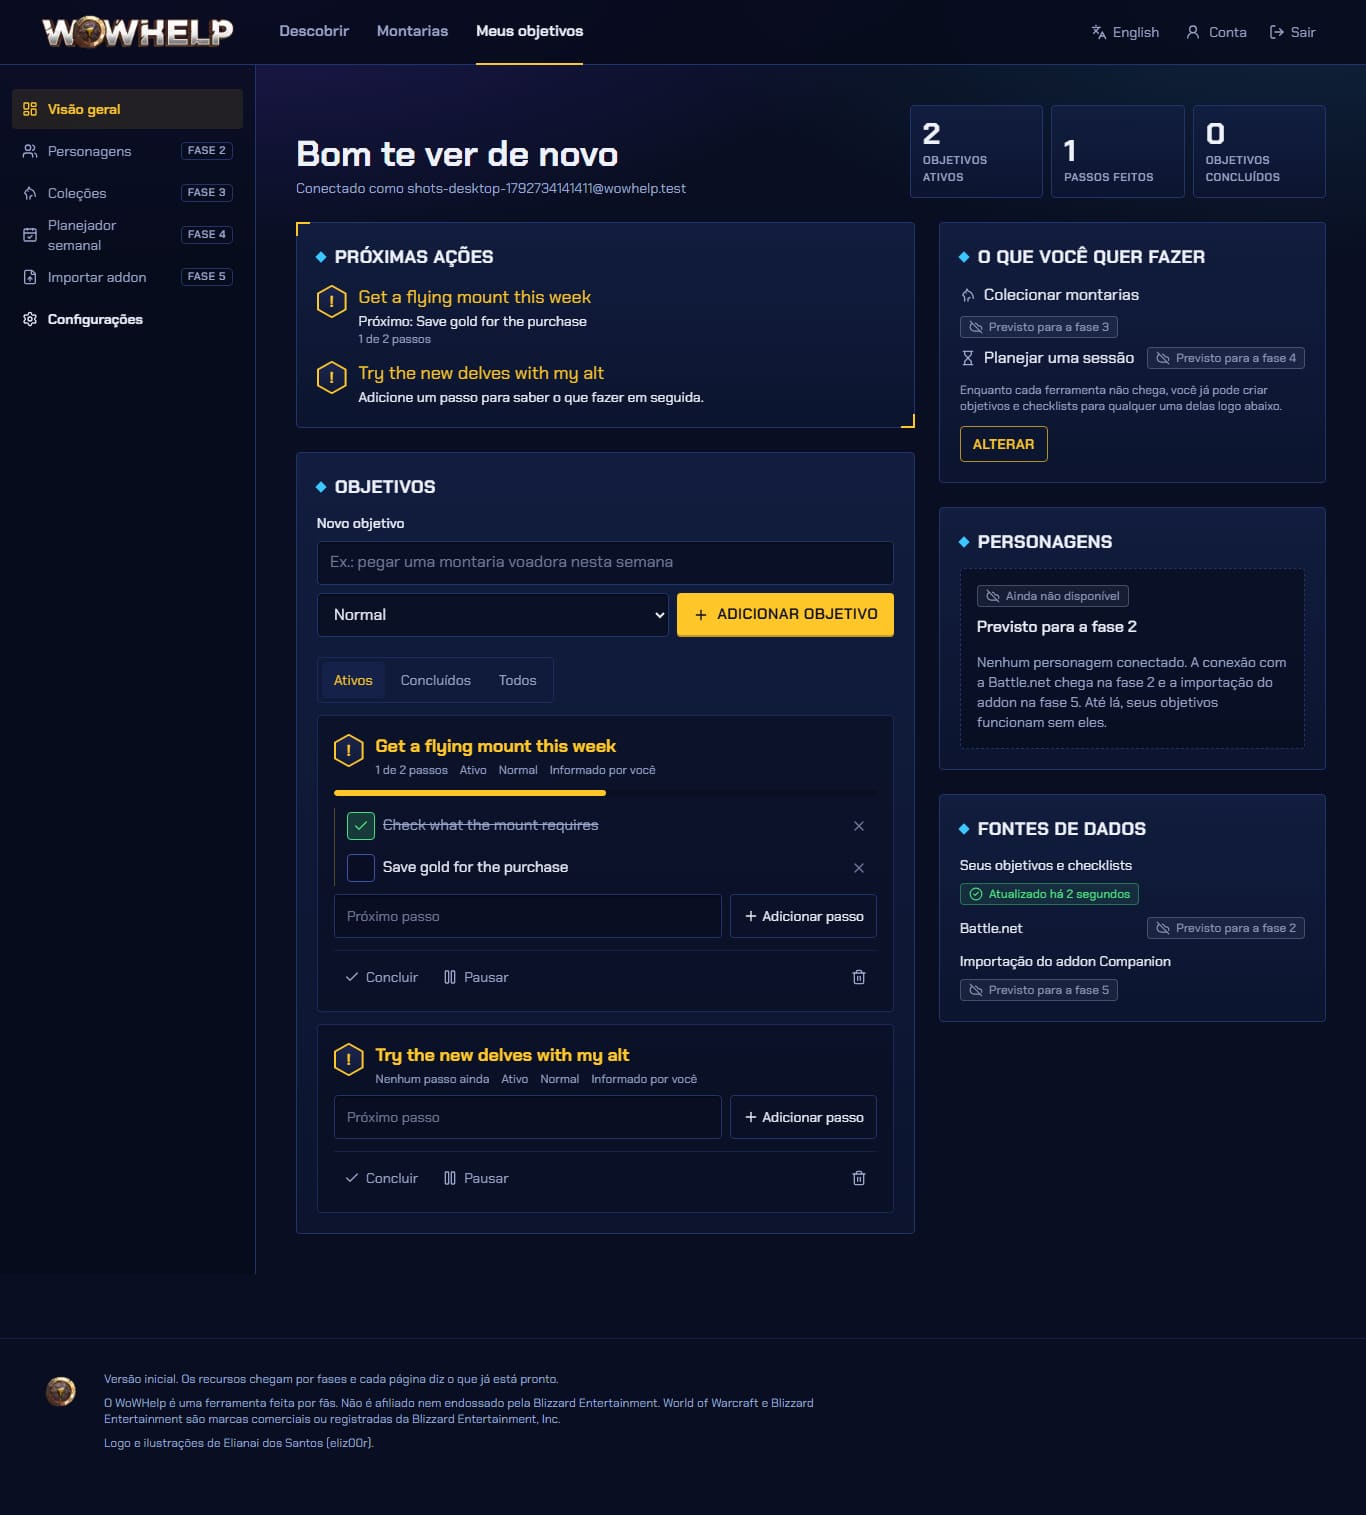
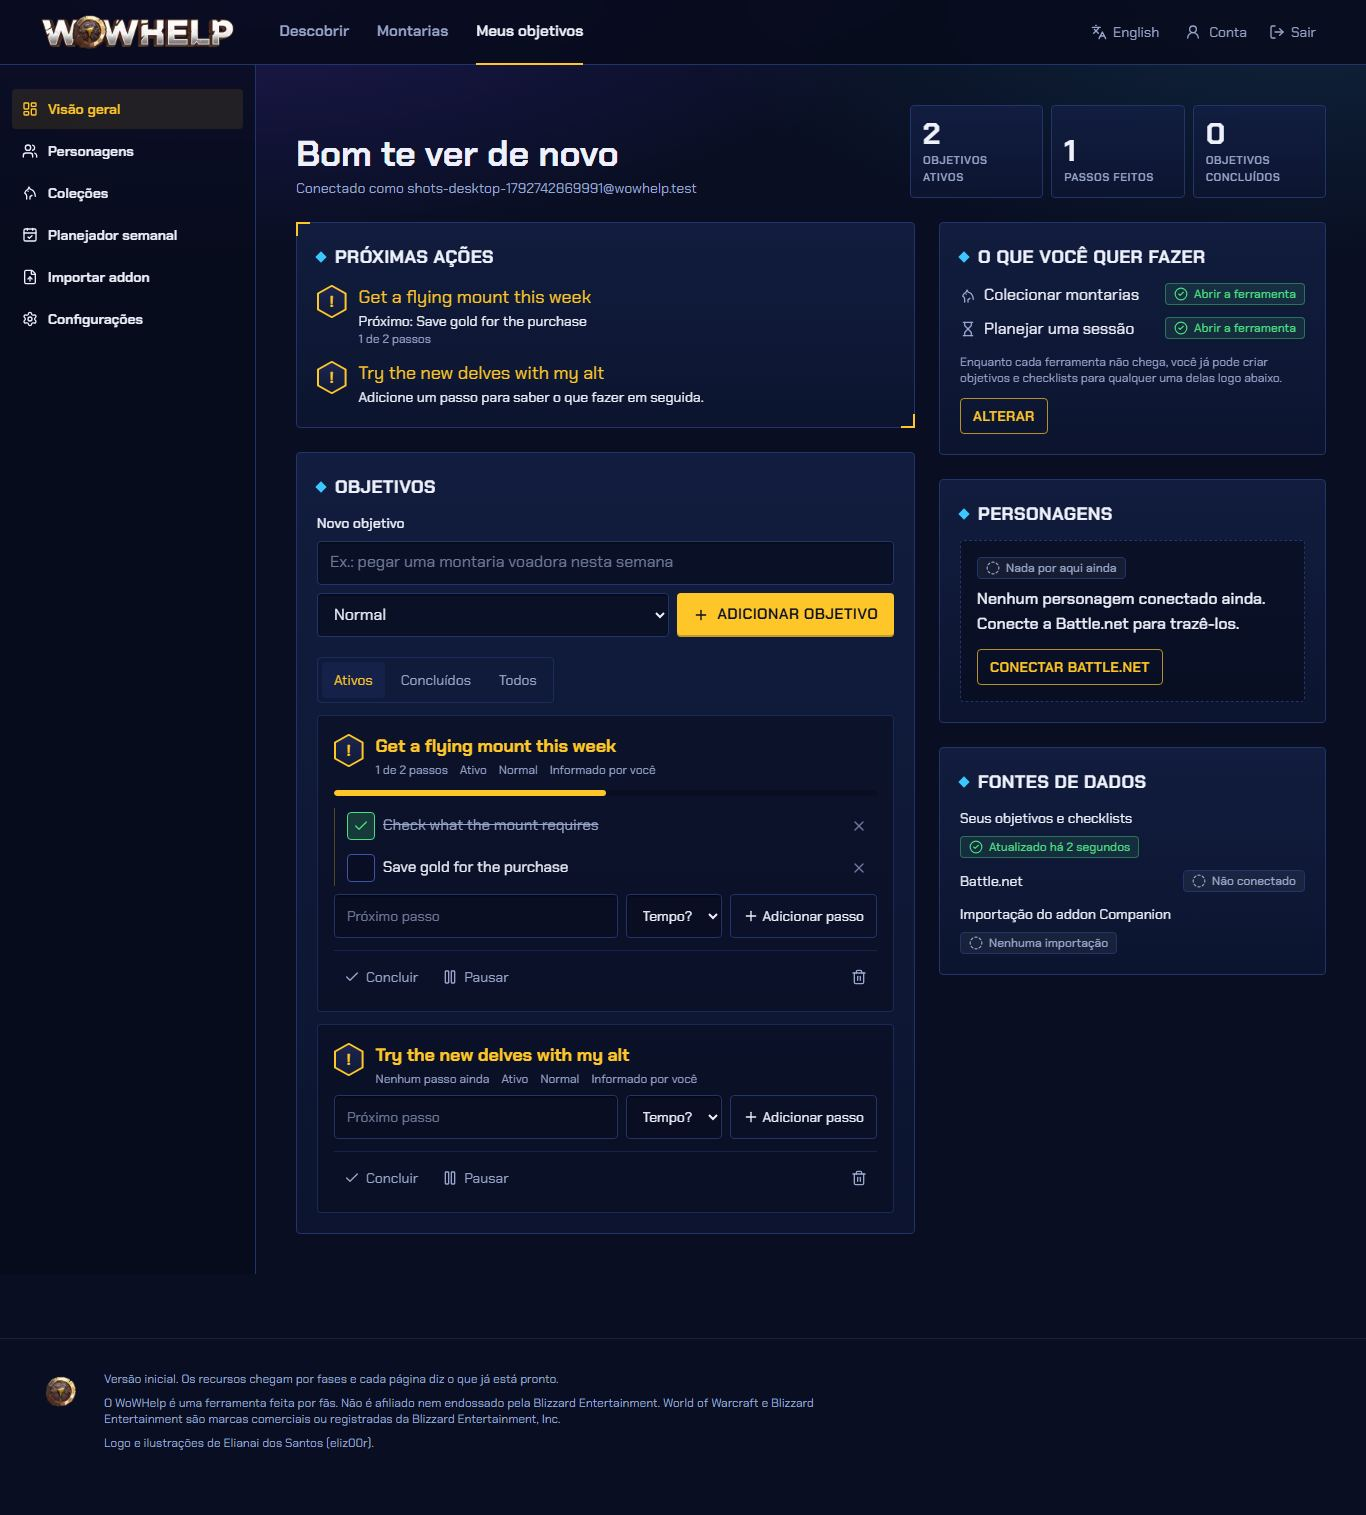
Documenta a Fase 5 e atualiza o README
Relatório com o gate, roteiro de teste no jogo para o Bruno, decisões
T26 a T29, quadro de tarefas, changelog e .env.example com todas as
variáveis (sem valores).

diff --git a/README.md b/README.md
@@ -2,34 +2,40 @@
 
 Assistente para jogadores de World of Warcraft Retail: o jogador escolhe o que quer fazer hoje, transforma isso em objetivos e passos curtos e vê de onde vem cada informação. Web responsiva, instalável como app (PWA), em inglês e português do Brasil.
 
-**Status:** Fases 0 e 1 em andamento (fundação). Nada publicado em produção. Veja [docs/fase-1/relatorio-fase-1.md](docs/fase-1/relatorio-fase-1.md).
+**Status:** Fases 0 a 5 concluídas no código; Fase 6 (beta) em preparação. Prévia no ar em https://wowhelp.vercel.app (sem divulgação pública). O que depende de teste real (Battle.net, jogo) e de revisão jurídica está em [docs/a-fazer.md](docs/a-fazer.md).
 
 ## O que já funciona
 
 - Home com a pergunta "What do you want to do today?" e escolha de objetivos (gear, montarias, conquistas, semanais, alts, classe, sessão, moradia).
 - Conta WoWHelp (e-mail e senha, Supabase Auth) com páginas privadas protegidas.
-- Painel do jogador: próximas ações, objetivos com checklist, áreas de foco, fontes de dados e estados honestos ("previsto para a fase X").
+- Painel do jogador: próximas ações, objetivos com checklist, áreas de foco e fontes de dados com data da última atualização.
+- Battle.net (OAuth oficial): personagens e coleção de montarias da conta, apagados em 30 dias sem atualização.
+- Catálogo de montarias com dados oficiais da Blizzard, busca, filtros e status coletada / não obtida / desconhecida.
+- Planejador semanal (reset por região) e de sessão (15, 30, 60, 120+ minutos).
+- Addon **WoWHelp Companion** (Lua) e importação segura do arquivo no site, com prévia, escolha do que importar e exclusão.
 - Inglês e português do Brasil em todas as telas, com troca de idioma.
 - PWA: manifest, ícones, service worker restrito e página offline.
 - Banco com RLS: cada conta só vê os próprios dados (testado com pgTAP e E2E).
-
-Integração Battle.net (Fase 2), catálogo de montarias (Fase 3), planejador semanal (Fase 4) e addon Companion (Fase 5) ainda não existem; o site diz isso onde for relevante.
 
 ## Estrutura
 
 ```text
 apps/web/                 Next.js 16 (App Router), React 19, TypeScript, Tailwind v4
   src/app/[locale]/       Páginas por idioma (/en, /pt-br)
-  src/features/           Um módulo por sistema: auth, goals, onboarding, catalog, profile
+  src/features/           Um módulo por sistema: auth, goals, onboarding, profile,
+                          battlenet, catalog, planner, addon
   src/components/         UI compartilhada: ui/, layout/, brand/, pwa/
   src/i18n/               Rotas de idioma (next-intl)
-  src/lib/supabase/       Clientes Supabase (navegador, servidor, proxy)
+  src/lib/                Supabase, Battle.net, URLs
   messages/               Textos en-US e pt-BR
+  public/downloads/       Zip do addon (gerado por scripts/build-addon-zip.mjs)
   tests/unit, tests/e2e   Vitest e Playwright (+ axe para acessibilidade)
-  scripts/                Importação da marca, capturas de tela
-packages/shared/          Domínio e contratos (enums, schemas Zod, regras puras)
-supabase/                 config.toml, migrations, testes pgTAP, template de e-mail
-docs/                     Relatórios de fase, decisões, design, pesquisa
+  scripts/                Importação da marca, capturas de tela, zip do addon
+addon/WoWHelpCompanion/   Addon Lua do jogo (SavedVariables, sem internet)
+packages/shared/          Domínio e contratos (enums, schemas Zod, regras puras,
+                          leitor do arquivo do addon)
+supabase/                 config.toml, migrations, testes pgTAP
+docs/                     Relatórios de fase, decisões, design, pesquisa, quest log
 planning/                 Pacote de planejamento original (não editar)
 ```
 
@@ -39,27 +45,30 @@ Pré-requisitos: Node 22+ (testado no 24), Docker Desktop ligado.
 
 1. Instale as dependências na raiz: `npm install`
 2. Suba o banco local (portas 554xx, para não colidir com outros projetos): `npx supabase start`
-3. Crie `apps/web/.env.local` a partir de `apps/web/.env.example`, com `API_URL` e `PUBLISHABLE_KEY` de `npx supabase status -o env`.
+3. Crie `apps/web/.env.local` a partir de `apps/web/.env.example`, com `API_URL`, `PUBLISHABLE_KEY` e `SECRET_KEY` de `npx supabase status -o env`.
 4. Rode o site: `npm run dev` e abra http://localhost:3100
 
-Sem o passo 2 e 3 o site abre normalmente, mas login e painel mostram "contas indisponíveis neste ambiente".
+Sem os passos 2 e 3 o site abre normalmente, mas login e painel mostram "contas indisponíveis neste ambiente".
+
+Mudou o addon? Rode `npm run addon:zip -w @wowhelp/web` para atualizar o zip de download (um teste confere).
 
 ## Testes
 
 | Comando | O que testa |
 | --- | --- |
-| `npm test` | Unitários (domínio, traduções en/pt iguais, proteção de redirecionamento) |
+| `npm test` | Unitários (domínio, leitor do addon contra arquivos maliciosos, traduções en/pt iguais, zip do addon) |
 | `npx supabase test db` | Isolamento entre contas no banco (RLS) |
-| `npm run build && npm run test:e2e` | Ponta a ponta no desktop e no celular, incluindo acessibilidade WCAG A/AA |
+| `npm run build && npm run test:e2e` | Ponta a ponta no desktop e no celular, incluindo acessibilidade WCAG A/AA e Battle.net falsa |
 | `npm run lint`, `npm run typecheck`, `npm run format:check` | Qualidade do código |
 
 O CI (`.github/workflows/ci.yml`) roda tudo isso em cada PR.
 
 ## Documentação
 
-- [Decisões técnicas](docs/decisoes.md)
+- [Quadro de tarefas](docs/a-fazer.md) e [decisões técnicas](docs/decisoes.md)
 - [Fase 0: relatório](docs/fase-0/relatorio-fase-0.md), [cobertura de dados Battle.net e addon](docs/fase-0/cobertura-de-dados-battlenet-e-addon.md), [inventário de assets](docs/fase-0/inventario-de-assets.md)
-- [Fase 1: relatório](docs/fase-1/relatorio-fase-1.md)
+- Relatórios: [Fase 1](docs/fase-1/relatorio-fase-1.md), [Fase 2](docs/fase-2/relatorio-fase-2.md), [Fase 3](docs/fase-3/relatorio-fase-3.md), [Fase 4](docs/fase-4/relatorio-fase-4.md), [Fase 5](docs/fase-5/relatorio-fase-5.md)
+- [Addon WoWHelp Companion](addon/WoWHelpCompanion/README.md)
 - [Identidade visual e pesquisa de layout](docs/design/identidade-visual.md)
 - [Planejamento original](planning/README.md)
 

diff --git a/docs/fase-5/relatorio-fase-5.md b/docs/fase-5/relatorio-fase-5.md
@@ -1,0 +1,47 @@
+# Fase 5 | Addon WoWHelp Companion: relatório
+
+Data: 24/10/2026 (madrugada). Gate (planning/docs/02): addon leve, sem automações proibidas, sem captura de dados de combate secretos, sem envio HTTP; a importação rejeita conteúdo malicioso ou malformado sem executar Lua.
+
+## Situação do gate
+
+| Critério | Situação | Evidência |
+| --- | --- | --- |
+| Addon leve | 5 arquivos Lua, ~12 KB. Lê só no login, ao ganhar montaria e (se estava em combate) ao sair do combate | `addon/WoWHelpCompanion/` |
+| Sem automações proibidas | Só leitura de APIs do cliente; nenhum clique, movimento ou ação automática | Teste `addon-lua-syntax.test.ts` recusa padrões proibidos |
+| Sem dados de combate secretos | Não lê combate, chat, amigos nem guilda; adia a leitura se o jogador estiver em combate | `Core.lua` (PLAYER_REGEN_ENABLED) |
+| Sem envio HTTP | Addons não conseguem acessar a internet; o jogador envia o arquivo no site | — |
+| Importação sem executar Lua | Leitor próprio que só aceita tabelas, textos, números e verdadeiro/falso; recusa chamadas de função, variáveis, concatenação, profundidade/tamanho/itens acima do limite e chaves `__proto__` | 19 testes em `snapshot.test.ts` |
+| Validação estrita e confirmação | Prévia sem gravar nada; o servidor lê o arquivo de novo na confirmação; o jogador escolhe o que importa (personagens, montarias) | E2E `addon-import.spec.ts` |
+| Marcação de snapshots locais | Cada importação guarda versão do addon, horário da leitura no jogo e contagens; o mesmo arquivo não entra duas vezes (hash) | Tabela `addon_imports`, pgTAP `04_addon_imports_rls.test.sql` |
+| Teste com 2 personagens e reload/logout | **Pendente: depende do Bruno no jogo** (roteiro abaixo) | — |
+
+## O que o jogador vê
+
+- Página **Importar addon** (menu da conta): 4 passos com o botão de baixar o addon, área para enviar ou arrastar o arquivo, prévia (personagens, montarias, região, horário da leitura), escolha do que importar, histórico e "Apagar dados do addon" com confirmação.
+- Personagens importados aparecem em **Personagens** com o selo "Addon Companion".
+- A coleção do addon conta como lista completa por 30 dias: montaria fora dela vira **não obtida**; depois disso volta a **desconhecido**.
+- Painel: "Fontes de dados" mostra quando foi a última importação.
+
+## Bug encontrado e corrigido nos testes
+
+O leitor recusava o arquivo inteiro quando faltava um horário opcional (o addon deixa vazio quando o jogo não informa o reset semanal). Corrigido e coberto por teste.
+
+## Roteiro de teste no jogo (para o Bruno)
+
+1. No site, entre na conta e abra **Importar addon**. Clique em **Baixar o addon 0.1.0**.
+2. Extraia o zip em `World of Warcraft\_retail_\Interface\AddOns` (deve ficar a pasta `WoWHelpCompanion` lá dentro).
+3. Abra o jogo. Na tela de personagens, em **AddOns**, confira se "WoWHelp Companion" aparece ligado e sem aviso de "desatualizado".
+4. Entre com um personagem e digite `/wowhelp`. Deve aparecer a versão e "última leitura".
+5. Digite `/reload`. Saia e entre com **outro personagem**. Digite `/wowhelp` de novo.
+6. Saia do jogo.
+7. No site, envie o arquivo `World of Warcraft\_retail_\WTF\Account\<SUA CONTA>\SavedVariables\WoWHelpCompanion.lua`.
+8. Confira na prévia: os 2 personagens e o número de montarias. Clique em **Importar**.
+9. Abra **Personagens** e **Montarias** e veja se bate com o jogo.
+
+Se algo der erro no jogo (janela vermelha de Lua), tire um print da mensagem: ela diz o arquivo e a linha.
+
+## Pendências
+
+- [!] Teste real no jogo (roteiro acima).
+- Confirmar o horário do reset das Américas com o campo `weeklyResetAt` que o addon já grava (o site ainda não usa esse dado).
+- Publicar o addon no CurseForge/Wago só depois do teste e da decisão sobre o nome (marca "WoW").

diff --git a/docs/decisoes.md b/docs/decisoes.md
@@ -29,3 +29,7 @@ Complementa `planning/docs/10_DECISOES_E_RISCOS.md` (D01–D06 e R01–R09). Cad
 | T23 | 23/10/2026 | Menu, abas e troca de idioma com versão estática enquanto o caminho carrega | Rotas dinâmicas (ex.: /mounts/7) não têm o caminho no pré-render | — |
 | T24 | 23/10/2026 | Reset: Europa oficial (quarta 04:00 UTC); Américas, Coreia e Taiwan marcados como estimados na interface | Só a Europa tem anúncio oficial; "não codificar horário sem fonte" | Quando o addon confirmar o horário pelo jogo |
 | T25 | 23/10/2026 | Tarefas recorrentes são do jogador; sessão usa só o próximo passo aberto de cada objetivo; item sem estimativa não entra na conta | Sem lista editorial não revisada; plano explicável | Ao ter lista editorial revisada |
+| T26 | 24/10/2026 | Arquivo do addon lido por um leitor próprio (sem executar Lua), com limites de tamanho (512 KB), profundidade, itens e texto, e só os campos da lista entram no banco | O arquivo vem do computador do jogador e pode ter sido editado; executar Lua no servidor seria executar código de terceiros | Se o formato do addon mudar (schemaVersion 2) |
+| T27 | 24/10/2026 | Importação em dois passos (prévia e confirmação), e o servidor lê o arquivo de novo na confirmação; o mesmo arquivo (hash SHA-256) não entra duas vezes | O navegador não pode "mandar" a prévia pronta; repetição não duplica histórico | — |
+| T28 | 24/10/2026 | Coleção do addon vale como lista completa por 30 dias (igual à Battle.net); dados do addon ficam até o jogador apagar | Dado do próprio jogo do jogador, não da Web API da Blizzard (o TTL de 30 dias dos termos da API não se aplica), mas "não obtida" precisa de leitura recente | Se o jurídico pedir prazo de retenção |
+| T29 | 24/10/2026 | Zip do addon gerado por script determinístico e versionado em `public/downloads`, conferido por teste | Download direto do site, sem depender de CurseForge antes do teste no jogo e da decisão sobre o nome | Ao publicar em CurseForge/Wago |

diff --git a/docs/a-fazer.md b/docs/a-fazer.md
@@ -1,6 +1,6 @@
 # Quadro de tarefas (quest log)
 
-Atualizado durante a noite de 23/10/2026. Tarefas de até ~4 horas, com resultado visível. `[x]` feito, `[ ]` a fazer, `[!]` depende do Bruno.
+Atualizado na madrugada de 24/10/2026. Tarefas de até ~4 horas, com resultado visível. `[x]` feito, `[ ]` a fazer, `[!]` depende do Bruno.
 
 ## Produção
 
@@ -36,9 +36,11 @@ Atualizado durante a noite de 23/10/2026. Tarefas de até ~4 horas, com resultad
 
 ## Fase 5: Addon
 
-- [ ] Addon Lua WoWHelp Companion (.toc 120105, SavedVariables, /wowhelp)
-- [ ] Importação segura do arquivo no site (sem executar Lua), com prévia e confirmação
-- [!] Teste dentro do jogo
+- [x] Addon Lua WoWHelp Companion (.toc 120105, SavedVariables, /wowhelp) com download no site
+- [x] Importação segura do arquivo no site (sem executar Lua), com prévia, confirmação, histórico e exclusão
+- [!] Teste dentro do jogo (roteiro em docs/fase-5/relatorio-fase-5.md)
+- [ ] Usar o horário de reset que o addon grava para confirmar o reset das Américas
+- [ ] Publicar no CurseForge/Wago (depois do teste e da decisão sobre o nome)
 
 ## Fase 6: Beta
 

diff --git a/CHANGELOG.md b/CHANGELOG.md
@@ -1,5 +1,16 @@
 # Changelog
 
+## 0.5.0 (prévia, sem divulgação) | 24/10/2026
+
+Fases 2 a 5.
+
+- Battle.net: conexão OAuth por região, personagens e montarias da conta, desconexão, limpeza automática em 30 dias.
+- Catálogo oficial de montarias (Game Data API, en-US e pt-BR) com busca, filtros, status coletada / não obtida / desconhecida, marcação manual e "transformar em objetivo".
+- Planejador semanal com reset por região (Europa oficial, demais estimadas e sinalizadas) e planejador de sessão de 15 a 120+ minutos com tempo estimado por passo.
+- Addon WoWHelp Companion 0.1.0 (Midnight, interface 120105) e página "Importar addon": prévia, escolha do que importar, histórico, exclusão. Leitor do arquivo sem executar Lua.
+- Correção: catálogo e coleção com mais de 1000 itens eram cortados pela paginação da API do Supabase.
+- Testes: 82 unitários do domínio, 29 do site, 58 de banco, 60 E2E.
+
 ## 0.1.0 (não publicado) | 23/10/2026
 
 Primeira entrega (Fases 0 e 1).
